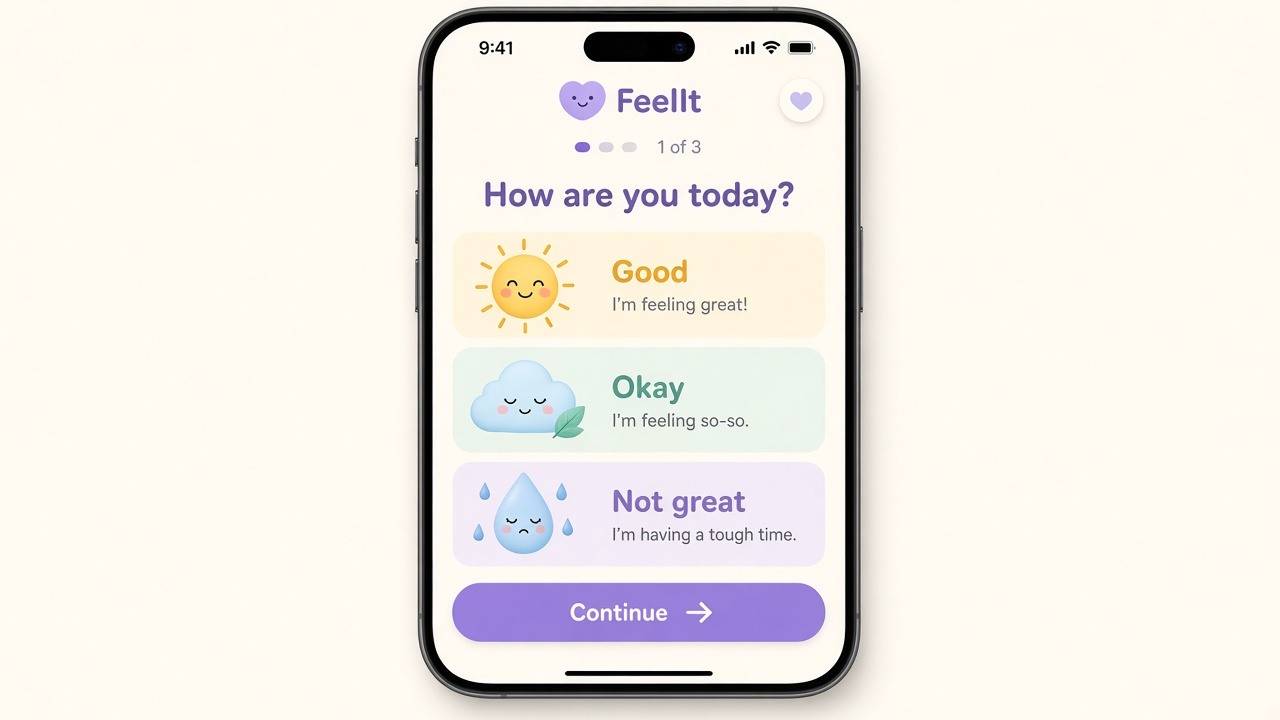
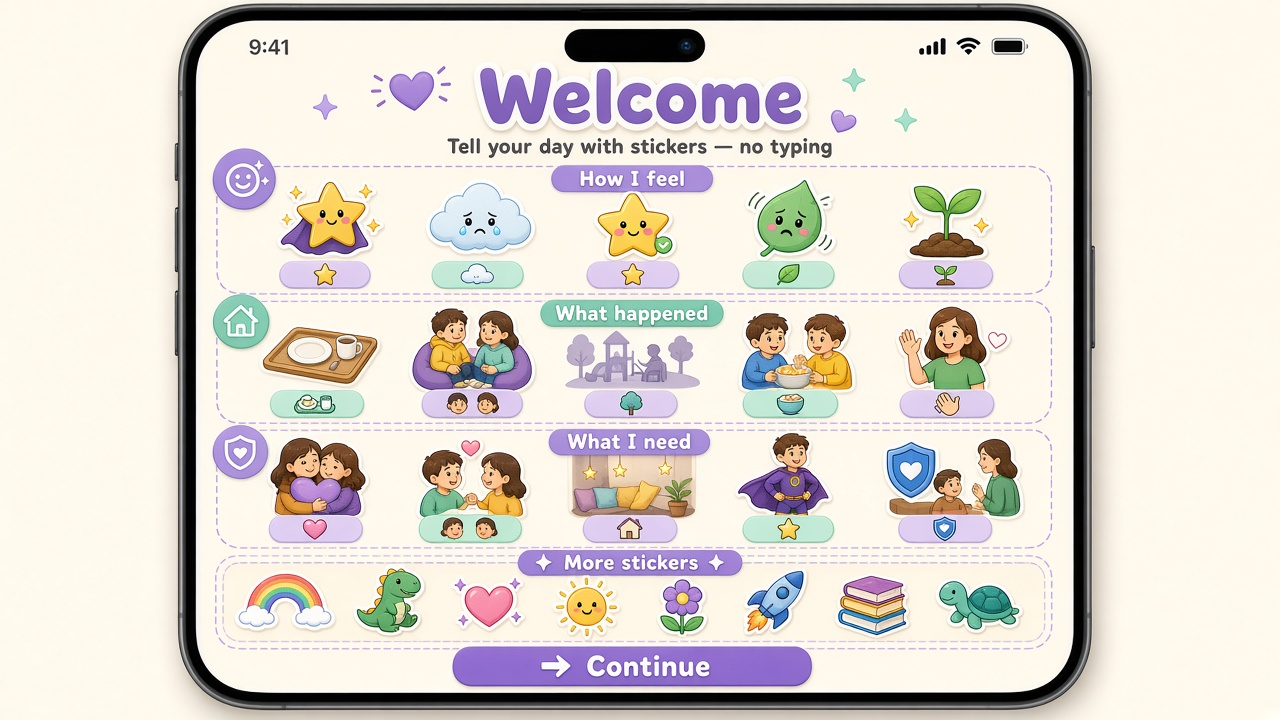
Update Welcome screen to Silent Story sticker-based flow
- Replace welcome-screen.png with new sticker-based mockup
- Rewrite Welcome Screen section: 3-panel Silent Story (How I feel, What happened, What I need)
- No free text on Welcome—stickers/emojis only
- Update OPEN-QUESTIONS.md: sticker packs TBD instead of text questions

diff --git a/README.md b/README.md
@@ -59,11 +59,20 @@ This tenet has specific implications for how users can communicate:
 
 **Trigger:** First app open of the day
 
-**Purpose:** Understand the user's overall mood and let them share good or bad experiences from that day.
+**Purpose:** Let kids express how they're feeling and what happened using a creative, sticker-based "Silent Story"—no free text required.
 
-**Format:**
-- Prompt the user with **at most 3 basic questions**
-- Questions should be simple and appropriate for children under 10
+**Format: Silent Story (3 sticker panels)**
+
+Kids place stickers on three panels to form a short non-verbal story:
+
+1. **How I feel** — Emotion stickers beyond basic happy/sad (e.g. brave, lonely, proud, shaky, hopeful, quiet, angry-but-safe)
+2. **What happened** — Curated moment stickers from a kid's world (left out at recess, someone laughed, a friend sat with me, teacher noticed me, shared snack, alone at lunch, stood up for myself). Depictions are gentle and abstract—never graphic bullying imagery.
+3. **What I need / hope** — Stickers like hug, friend, quiet space, feel brave, tell a safe grown-up
+
+**Rules:**
+- Stickers/emojis only—no free text on the Welcome screen
+- Child can place a small number of stickers per panel; the order forms their story
+- Optional: A soft "weather around me" indicator (sunny/cloudy/storm) may enhance mood expression
 
 ![Welcome Screen](mocks/welcome-screen.png)
 

diff --git a/OPEN-QUESTIONS.md b/OPEN-QUESTIONS.md
@@ -14,9 +14,10 @@ The following decisions are not yet finalized and require further discussion.
 
 ## Welcome Screen Content
 
-- **Exact questions:** What specific questions are asked on the Welcome screen?
-- **Question format:** Multiple choice? Emoji-based? Slider scales?
-- **Personalization:** Do questions adapt based on previous answers or user history?
+- **Sticker packs:** What specific stickers are included in each panel (How I feel, What happened, What I need)?
+- **Emotion sticker range:** Which emotions beyond happy/sad should be represented?
+- **Moment stickers:** Which kid-world moments to include? How abstract vs. specific?
+- **Personalization:** Do available stickers adapt based on previous usage or user history?
 
 ---
 
